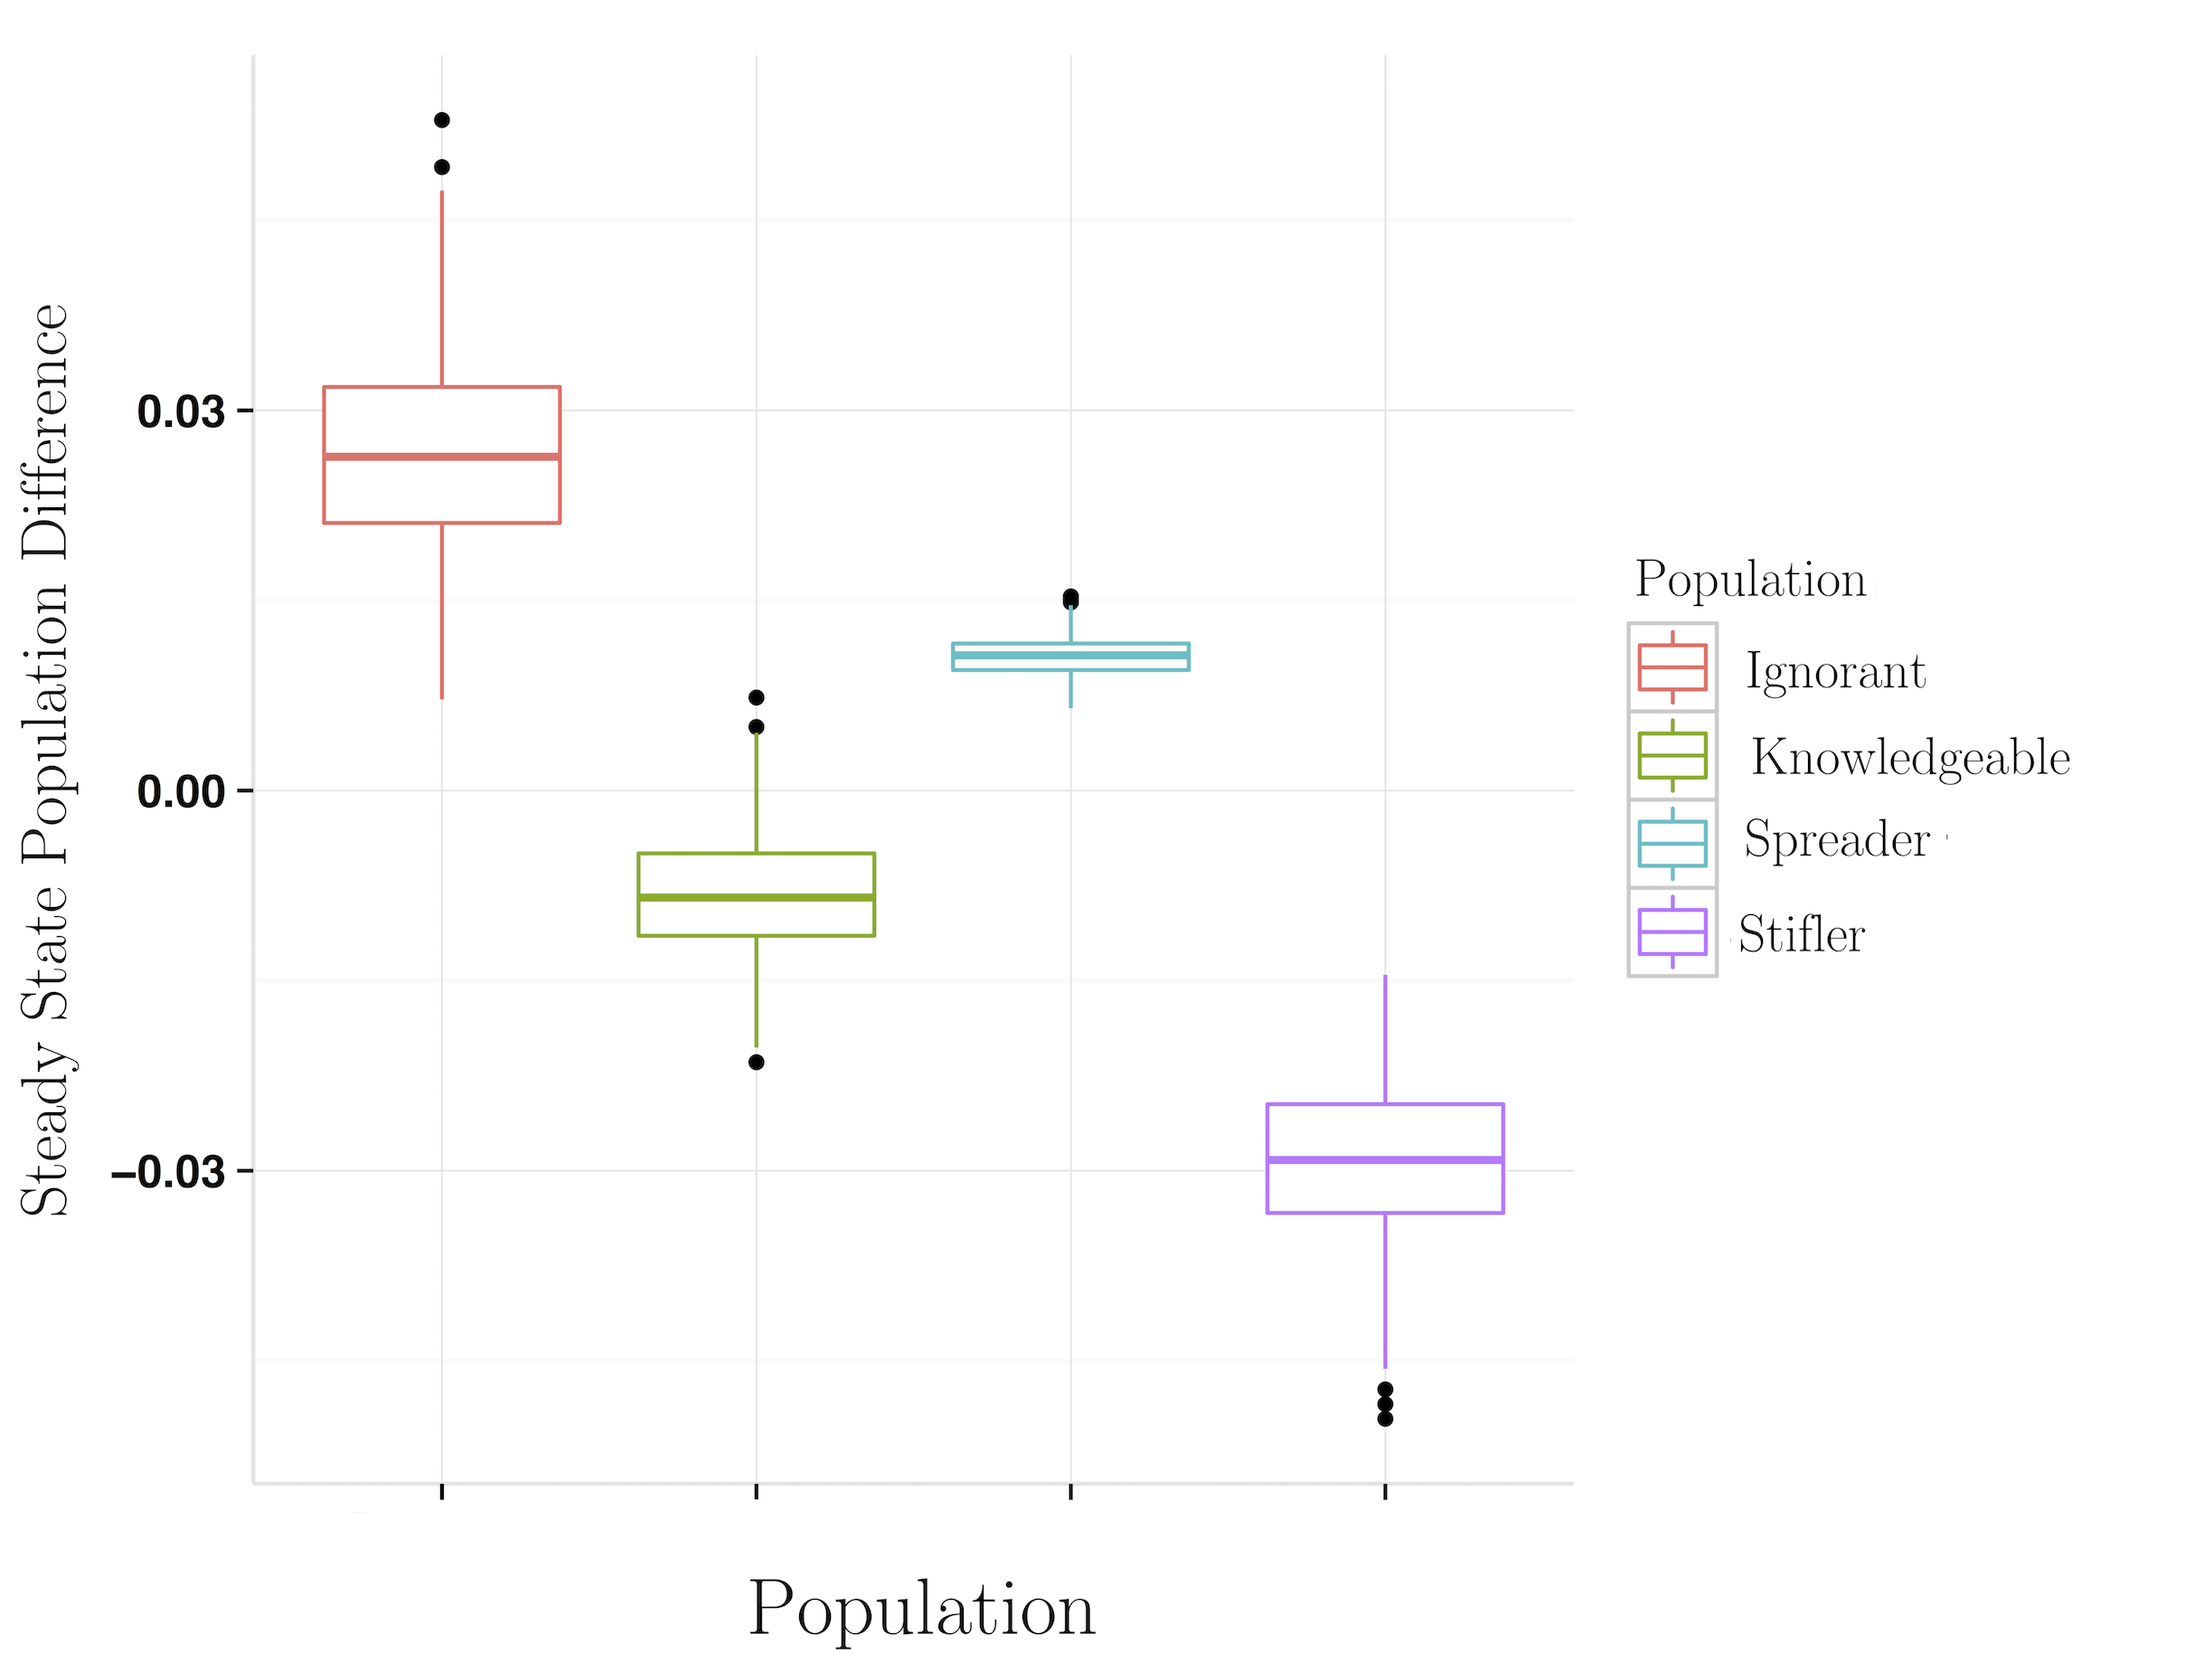
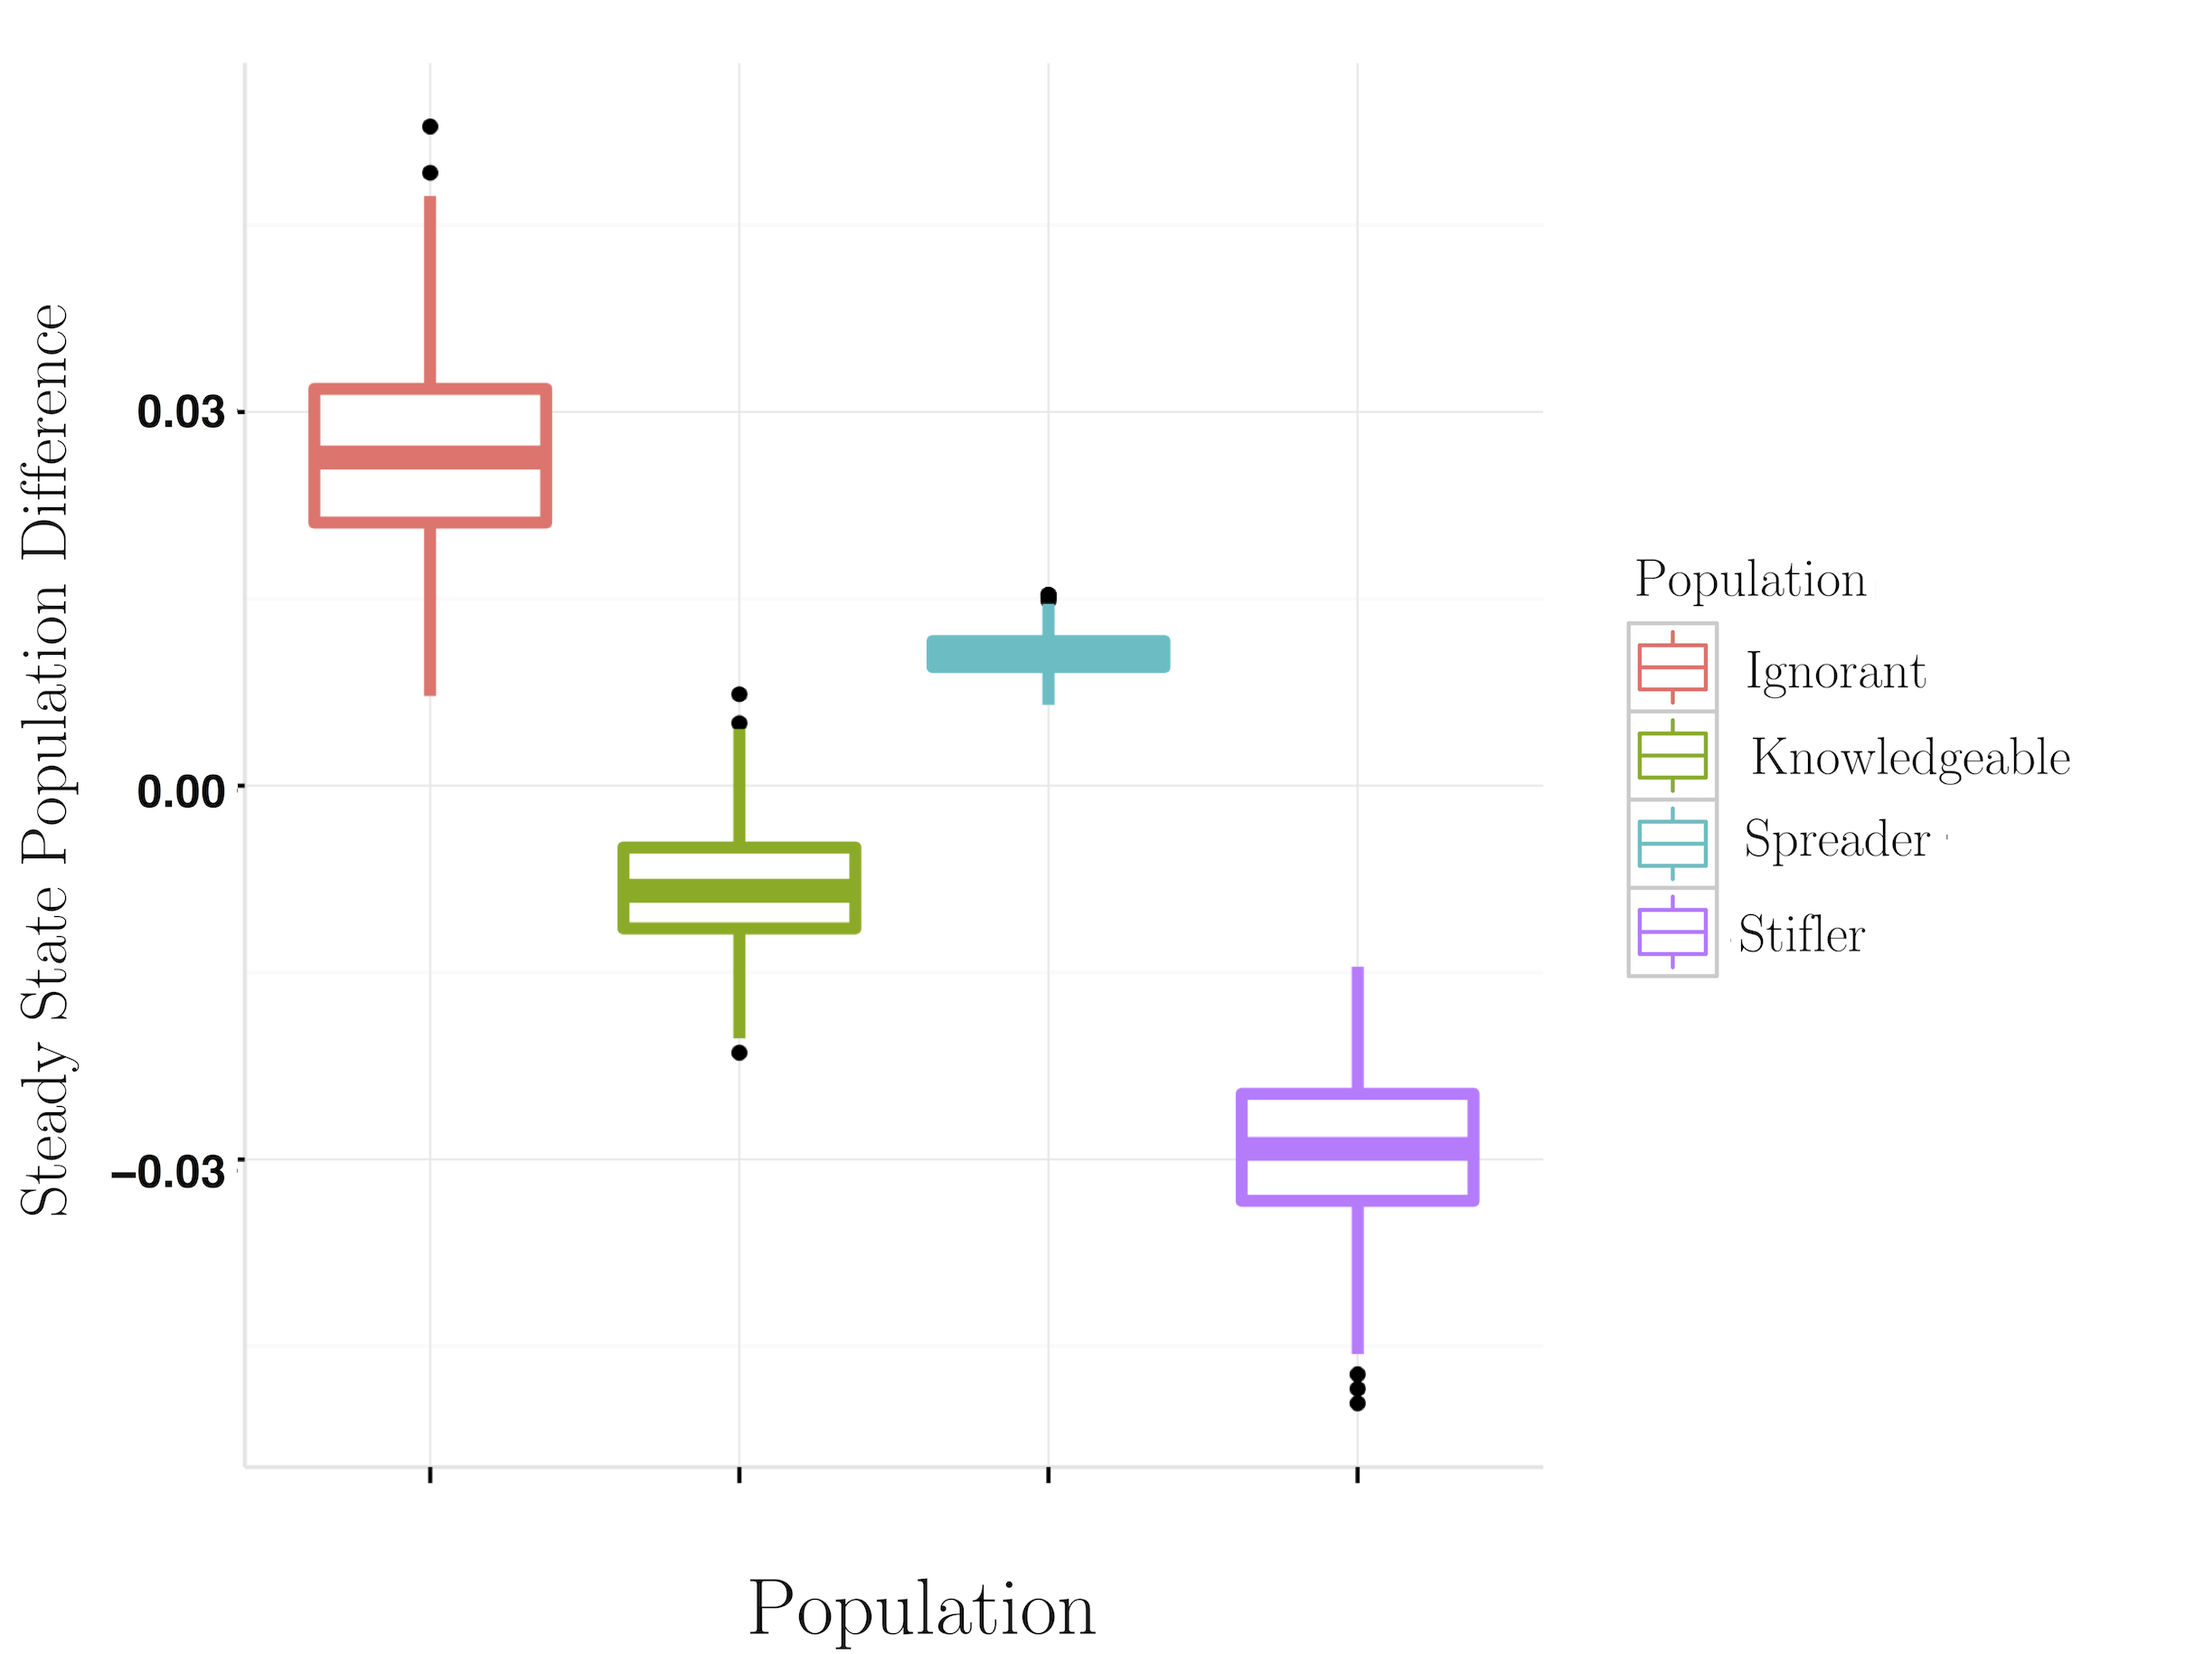
section4.1
Minor changes to 4.1 and lines thicker on figure 6

diff --git a/paper/results.tex b/paper/results.tex
@@ -59,7 +59,7 @@ Solid line indicates median proportion of population across the 400 trials; shad
 \label{fig:figure5}
 \end{figure}
 
-By comparison, in the agent-based model (Figure~\ref{fig:figure5}) there are some individuals who do not hear the rumor at all by the end of the simulation.
+By comparison, in the analogous agent-based model (Figure~\ref{fig:figure5}) there are some individuals who do not hear the rumor at all by the end of the simulation.
 
 \begin{figure}[H]
 \captionsetup{width=0.8\textwidth}
@@ -69,10 +69,10 @@ By comparison, in the agent-based model (Figure~\ref{fig:figure5}) there are som
 \label{fig:figure6}
 \end{figure}
 
-In the agent-based model, as expected in a stochastic model, there are pockets of ``ignorance'' that remain.
+In this agent-based model, as expected in a stochastic model, there are pockets of ``ignorance'' that remain.
 Additionally, the slope of the population graphs are more gradual, rather than moving sharply, as in the differential model.
-While the dynamics of how the differential model and the agent-based model reached their steady-states is  different, the end states are generally similar, as seen in Figure~\ref{fig:figure6}.
-This shows a direct comparison of the steady states from the differential model shown in Figure~\ref{fig:figure1} and the stochastic end states from the Agent-Based model in Figure~\ref{fig:figure5}  Though the differential model has no network, and is deterministic, we find that the Agent-Based model ends with essentially the same steady states.
+While the dynamics of how the differential model and the simple agent-based model reached their steady-states is  different, the end states are generally similar, as seen in Figure~\ref{fig:figure6}.
+This shows a direct comparison of the steady states from the differential model shown in Figure~\ref{fig:figure1} and the stochastic end states from the agent-based model in Figure~\ref{fig:figure5}  Though the differential model has no network, and is deterministic, we find that the agent-based model ends with essentially the same steady states.
 Both models seem to confirm that with the baseline $\alpha$ values we chose, most people end up as rumor stiflers and, most people will be exposed to the rumor.
 Very few people end up forgetting the rumor entirely.
 
